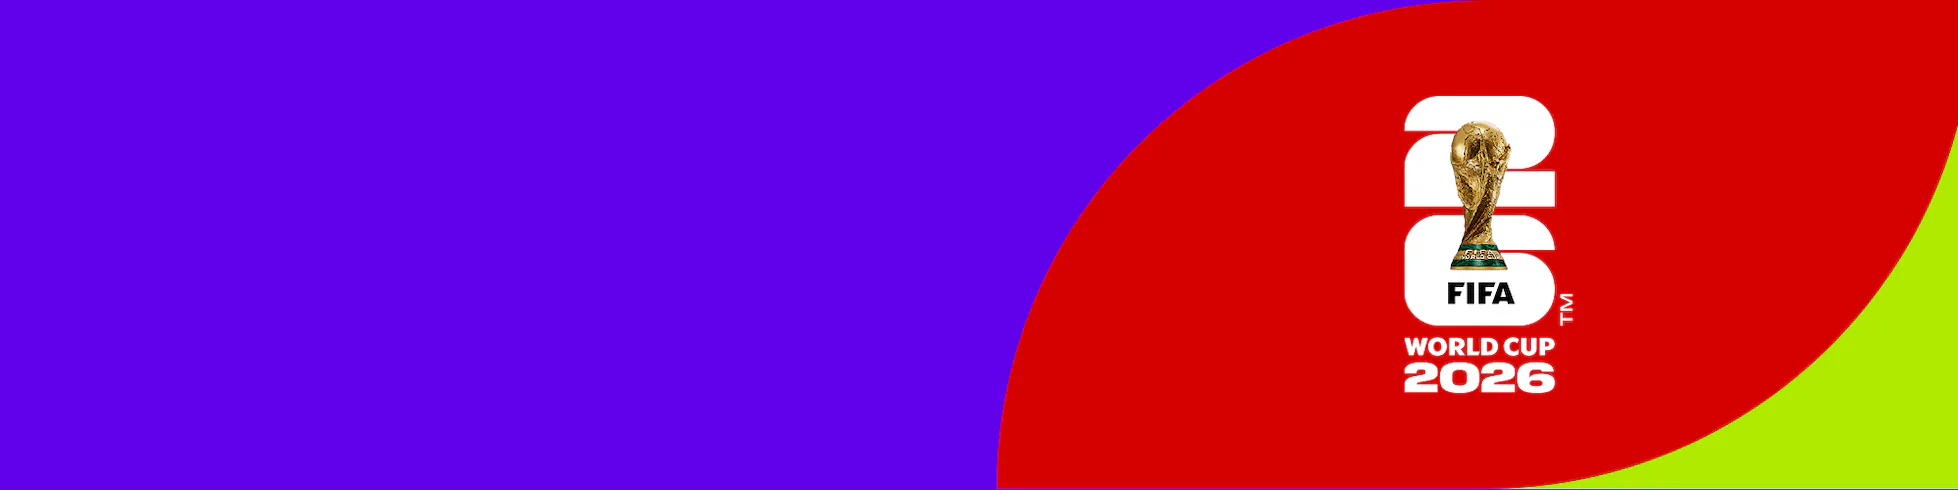
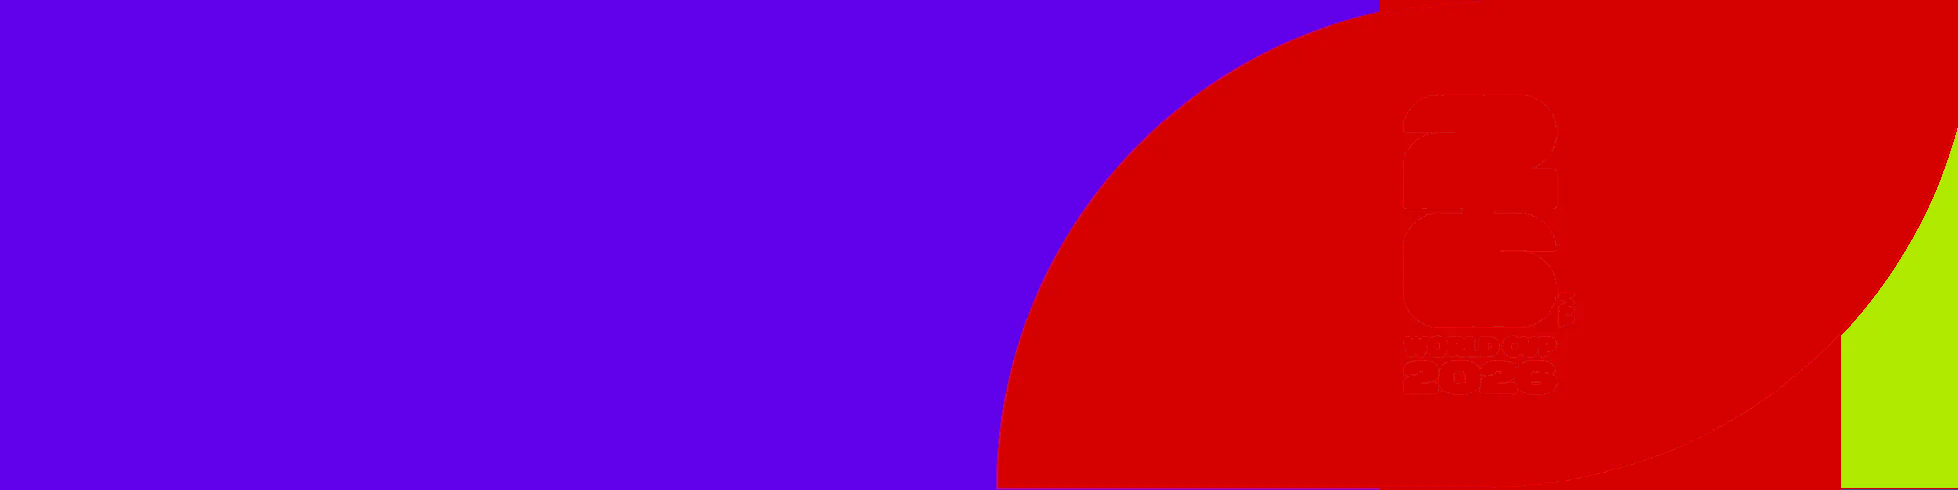
Clean header image, constrain to content width, update modal copy
- Remove FIFA logo/trophy from red section of header image (lossless WEBP)
- Header background now constrained to max-w-5xl content width with
  rounded-2xl corners, sitting inset from page edges
- How it works modal: rewritten as organiser instructions (print tickets,
  draw from a hat, claim via QR or name, prizes throughout)

diff --git a/app/page.tsx b/app/page.tsx
@@ -41,40 +41,42 @@ export default async function Home({ searchParams }: { searchParams: Promise<{ c
   return (
     <main className="min-h-screen" style={{ background: 'var(--bg)' }}>
 
-      {/* Header with image backdrop */}
-      <header
-        style={{
-          backgroundColor: '#4D10C8',
-          backgroundImage: 'url(/wc2026-header.webp)',
-          backgroundSize: 'auto 100%',
-          backgroundRepeat: 'no-repeat',
-          backgroundPosition: 'right center',
-        }}
-      >
-        <div className="max-w-5xl mx-auto px-4 sm:px-6 pt-8 pb-7">
-          <p className="text-sm font-semibold uppercase tracking-widest" style={{ color: 'rgba(255,255,255,0.7)' }}>
-            FIFA World Cup · 2026 · {company.name}
-          </p>
-          <div className="flex items-end justify-between mt-1.5">
-            <div className="flex items-end gap-4">
-              <TrophyEasterEgg />
-              <h1 className="album-title text-4xl sm:text-6xl font-black tracking-tight" style={{ color: '#fff' }}>
-                The Draw
-              </h1>
-            </div>
-            <div className="flex items-center gap-3">
-              <span className="hidden sm:flex text-base items-center gap-1.5" style={{ color: 'rgba(255,255,255,0.7)' }}>
-                <span className="inline-block w-1.5 h-1.5 rounded-full" style={{ background: 'rgba(255,255,255,0.5)' }} />
-                {lastSync ? <>Synced <SyncTime timestamp={lastSync} /></> : 'Not yet synced'}
-              </span>
-              <HowItWorksModal />
-              <ThemeToggle />
+      <div className="max-w-5xl mx-auto px-4 sm:px-6 pt-6">
+
+        {/* Header with image backdrop — constrained to content width */}
+        <header
+          className="rounded-2xl overflow-hidden"
+          style={{
+            backgroundColor: '#4D10C8',
+            backgroundImage: 'url(/wc2026-header.webp)',
+            backgroundSize: 'auto 100%',
+            backgroundRepeat: 'no-repeat',
+            backgroundPosition: 'right center',
+          }}
+        >
+          <div className="px-6 sm:px-8 pt-8 pb-7">
+            <p className="text-sm font-semibold uppercase tracking-widest" style={{ color: 'rgba(255,255,255,0.7)' }}>
+              FIFA World Cup · 2026 · {company.name}
+            </p>
+            <div className="flex items-end justify-between mt-1.5">
+              <div className="flex items-end gap-4">
+                <TrophyEasterEgg />
+                <h1 className="album-title text-4xl sm:text-6xl font-black tracking-tight" style={{ color: '#fff' }}>
+                  The Draw
+                </h1>
+              </div>
+              <div className="flex items-center gap-3">
+                <span className="hidden sm:flex text-base items-center gap-1.5" style={{ color: 'rgba(255,255,255,0.7)' }}>
+                  <span className="inline-block w-1.5 h-1.5 rounded-full" style={{ background: 'rgba(255,255,255,0.5)' }} />
+                  {lastSync ? <>Synced <SyncTime timestamp={lastSync} /></> : 'Not yet synced'}
+                </span>
+                <HowItWorksModal />
+                <ThemeToggle />
+              </div>
             </div>
           </div>
-        </div>
-      </header>
+        </header>
 
-      <div className="max-w-5xl mx-auto px-4 sm:px-6">
         <div className="py-10 space-y-10">
 
           {/* Main prizes */}
@@ -154,5 +156,6 @@ export default async function Home({ searchParams }: { searchParams: Promise<{ c
         </div>
       </div>
     </main>
+
   );
 }

diff --git a/components/HowItWorksModal.tsx b/components/HowItWorksModal.tsx
@@ -56,20 +56,20 @@ export default function HowItWorksModal() {
 
             <div className="px-6 py-5 space-y-4" style={{ color: 'var(--text-muted)', fontSize: '0.95rem', lineHeight: 1.6 }}>
               <div className="flex gap-3">
-                <span className="text-xl" style={{ flexShrink: 0 }}>🎟</span>
-                <p><strong style={{ color: 'var(--text-primary)' }}>You've been drawn a team</strong> — one of the 48 competing nations in the 2026 FIFA World Cup. Check below to find your name and team.</p>
+                <span className="text-xl" style={{ flexShrink: 0 }}>🖨</span>
+                <p><strong style={{ color: 'var(--text-primary)' }}>Print the tickets</strong> — the organiser prints one ticket per team. Each ticket has the team name and a unique QR code.</p>
+              </div>
+              <div className="flex gap-3">
+                <span className="text-xl" style={{ flexShrink: 0 }}>🎩</span>
+                <p><strong style={{ color: 'var(--text-primary)' }}>Draw from a hat</strong> — tickets are folded up and everyone draws one at random. That's your team for the tournament.</p>
+              </div>
+              <div className="flex gap-3">
+                <span className="text-xl" style={{ flexShrink: 0 }}>📱</span>
+                <p><strong style={{ color: 'var(--text-primary)' }}>Claim your team</strong> — scan the QR code on your ticket to register your name, or give your name to the organiser and they'll add it for you.</p>
               </div>
               <div className="flex gap-3">
                 <span className="text-xl" style={{ flexShrink: 0 }}>🏆</span>
-                <p><strong style={{ color: 'var(--text-primary)' }}>Win the big prizes</strong> — if your team wins the tournament you take 1st place prize money, runner-up takes 2nd.</p>
-              </div>
-              <div className="flex gap-3">
-                <span className="text-xl" style={{ flexShrink: 0 }}>🎲</span>
-                <p><strong style={{ color: 'var(--text-primary)' }}>Novelty prizes</strong> — there are bonus prizes for things like the most cards, the first team out, and the longest-range goal of the tournament.</p>
-              </div>
-              <div className="flex gap-3">
-                <span className="text-xl" style={{ flexShrink: 0 }}>📊</span>
-                <p><strong style={{ color: 'var(--text-primary)' }}>Live standings</strong> — the draw updates automatically as the tournament progresses. Eliminated teams are crossed out.</p>
+                <p><strong style={{ color: 'var(--text-primary)' }}>Prizes throughout</strong> — there are prizes for the winner, runner-up, and a set of novelty awards tracked live as the tournament unfolds. Enjoy the World Cup!</p>
               </div>
             </div>
 
